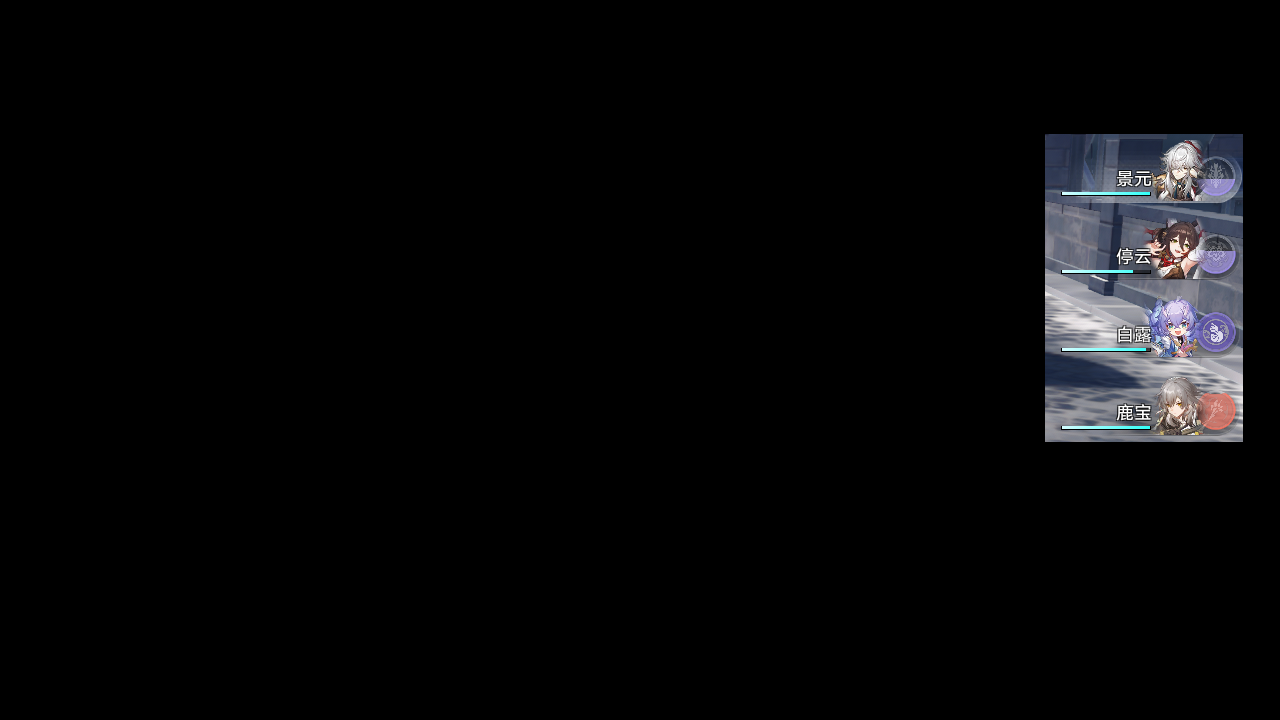
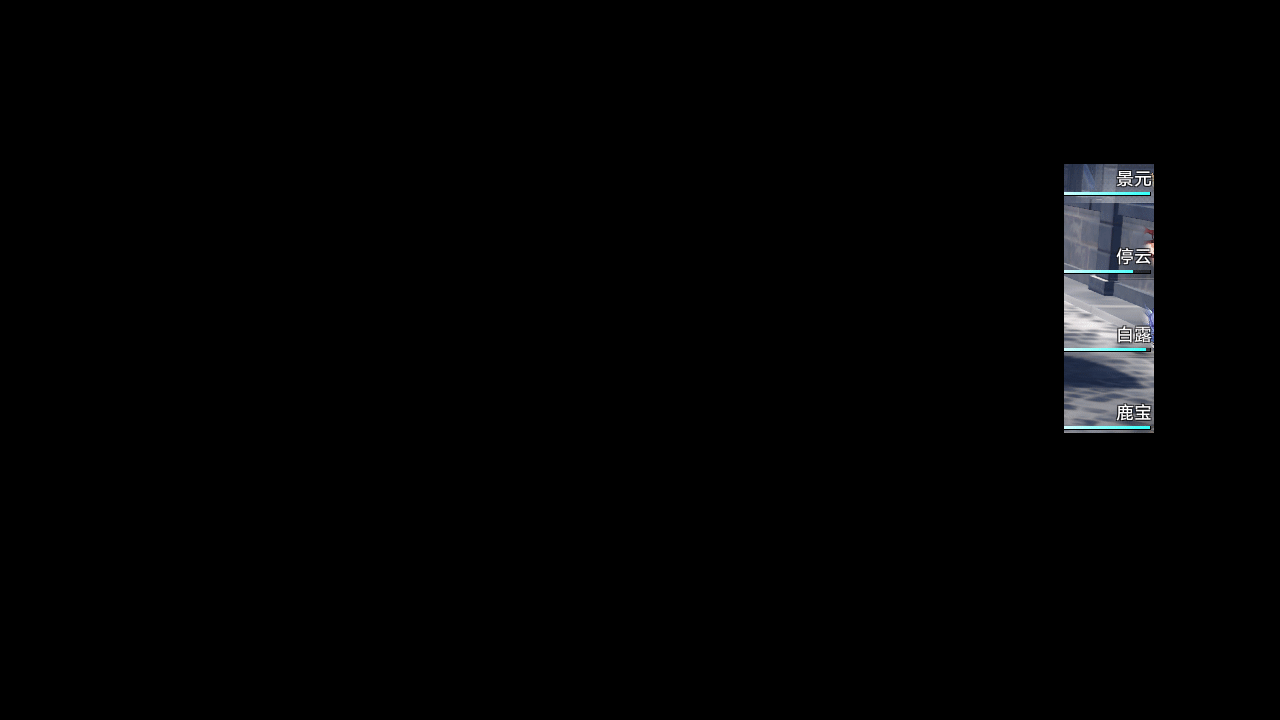
1.在page_main界面选择完角色后会进入page_character界面确认角色已被选择 2.增加了使用更换单个角色的方式来更换队伍中的角色

Changed region(s): [[0.8125, 0.1833, 0.9688, 0.6111]]

diff --git a/tasks/team/team_setup_March7th.py b/tasks/team/team_setup_March7th.py
@@ -1,7 +1,7 @@
 from module.logger import logger
 from module.ocr.ocr import *
 from tasks.base.assets.assets_base_page import CLOSE
-from tasks.base.page import page_team, page_main
+from tasks.base.page import page_team, page_main, page_character
 from tasks.team.assets.assets_team import *
 from tasks.team.assets.assets_team_character_list import *
 from tasks.base.ui import UI
@@ -16,28 +16,44 @@ class TeamUI(UI):
         self.device.screenshot()
         self.check_team_characters()
     """
+
     def check_team_characters(self, skip_first_screenshot=False):
         self.ui_ensure(page_main, skip_first_screenshot)
         skip_first_screenshot = True
+        success = False
+        character_selected = '三月七'
+
         while 1:
             if skip_first_screenshot:
                 skip_first_screenshot = False
             else:
-                ocr = Ocr(TEAM_CHECK_HOMEPAGE)
-                ocr.merge_thres_y = 20
-                result = ocr.detect_and_ocr(self.device.screenshot(), direct_ocr=False)
-                for r in result:
+                self.ui_ensure(page_main, skip_first_screenshot)
+                ocr_page_main = Ocr(TEAM_CHECK_HOMEPAGE)
+                ocr_page_main.merge_thres_y = 20
+                result_page_main = ocr_page_main.detect_and_ocr(self.device.screenshot(), direct_ocr=False)
+                logger.info('Detect Long-handed Character')
+                for r in result_page_main:
                     if r.ocr_text in CHARACTER_RECOMMEND:
-                        logger.info('Long-handed Character "{}" in team'.format(r.ocr_text))
+                        logger.info(f'Long-handed Character "{r.ocr_text}" in team')
+                        character_selected = r.ocr_text
                         button = OcrResultButton(r, r.ocr_text)
                         self.device.click(button)
+                        success = True
+                if success:
+                    # Ensure character selection
+                    self.ui_ensure(page_character, skip_first_screenshot)
+                    ocr_page_character = Ocr(TEAM_CHECK_SELECTED)
+                    result_page_character = ocr_page_character.ocr_single_line(self.device.screenshot())
+                    logger.info(f' "{result_page_character}" is selected ')
+                    if character_selected == result_page_character:
+                        self.ui_ensure(page_main, skip_first_screenshot)
                         return True
-                logger.info('no Long-handed Character in team')
-                if self.setup_team_character():
-                    return True
-                continue
+                else:
+                    logger.info('No Long-handed Character in team')
+                    self.setup_team_character_single()
+                    continue
 
-    def setup_team_character(self, skip_first_screenshot=False):
+    def setup_team_character_quick(self, skip_first_screenshot=False):
         """
         Examples:
             self = TeamUI('alas')
@@ -52,16 +68,40 @@ class TeamUI(UI):
             else:
                 self.device.screenshot()
             if self.appear_then_click(TEAM_SETUP):
-                logger.info('setup team')
+                logger.info('Setup team')
             if self.appear_then_click(TEAM_GRID_FIRST_SITE):
-                logger.info('click TEAM_GRID_FIRST_SITE')
+                logger.info('Click TEAM_GRID_FIRST_SITE')
                 self.device.screenshot()
                 self.match_template(March_7th_Mini)
             if self.appear_then_click(March_7th_Mini, similarity=0.55):
-                logger.info('click March_7th_Mini')
+                logger.info('Click March_7th_Mini')
                 self.appear_then_click(TEAM_CONFIRM)
             if self.appear(TEAM_SETUP_MARCH7TH):
                 self.appear_then_click(CLOSE)
+                if self.ui_ensure(page_main, skip_first_screenshot):
+                    return True
+            logger.info('Setup team character continue')
+            continue
+
+    def setup_team_character_single(self, skip_first_screenshot=False):
+
+        self.ui_ensure(page_team, skip_first_screenshot)
+        skip_first_screenshot = True
+
+        while 1:
+            if skip_first_screenshot:
+                skip_first_screenshot = False
+            else:
+                self.device.screenshot()
+
+            ocr_page_team = Ocr(TEAM_SETUP_FIRST_SITE)
+            result_page_team = ocr_page_team.ocr_single_line(self.device.screenshot())
+            if result_page_team:
+                self.device.click(TEAM_SETUP_FIRST_SITE)
+            if self.appear_then_click(March_7th_Mini, similarity=0.55):
+                logger.info('Click March_7th_Mini')
+            if self.appear_then_click(CHARACTER_STATE_JOIN):
+                logger.info('Character join team')
                 return True
-            logger.info('setup team character continue')
+            logger.info('Setup team character continue')
             continue

diff --git a/tasks/team/assets/assets_team.py b/tasks/team/assets/assets_team.py
@@ -3,14 +3,64 @@ from module.base.button import Button, ButtonWrapper
 # This file was auto-generated, do not modify it manually. To generate:
 # ``` python -m dev_tools.button_extract ```
 
+CHARACTER_LIST_PAGE = ButtonWrapper(
+    name='CHARACTER_LIST_PAGE',
+    cn=Button(
+        file='./assets/cn/team/CHARACTER_LIST_PAGE.png',
+        area=(207, 70, 293, 89),
+        search=(187, 50, 313, 109),
+        color=(115, 120, 146),
+        button=(207, 70, 293, 89),
+    ),
+)
+CHARACTER_STATE_JOIN = ButtonWrapper(
+    name='CHARACTER_STATE_JOIN',
+    cn=Button(
+        file='./assets/cn/team/CHARACTER_STATE_JOIN.png',
+        area=(1063, 656, 1084, 671),
+        search=(1043, 636, 1104, 691),
+        color=(183, 183, 187),
+        button=(1063, 656, 1084, 671),
+    ),
+)
+CHARACTER_STATE_LEAVE = ButtonWrapper(
+    name='CHARACTER_STATE_LEAVE',
+    cn=Button(
+        file='./assets/cn/team/CHARACTER_STATE_LEAVE.png',
+        area=(1064, 654, 1083, 673),
+        search=(1044, 634, 1103, 693),
+        color=(138, 137, 136),
+        button=(1064, 654, 1083, 673),
+    ),
+)
+CHARACTER_STATE_SWITCH = ButtonWrapper(
+    name='CHARACTER_STATE_SWITCH',
+    cn=Button(
+        file='./assets/cn/team/CHARACTER_STATE_SWITCH.png',
+        area=(1061, 653, 1084, 673),
+        search=(1041, 633, 1104, 693),
+        color=(184, 185, 185),
+        button=(1061, 653, 1084, 673),
+    ),
+)
 TEAM_CHECK_HOMEPAGE = ButtonWrapper(
     name='TEAM_CHECK_HOMEPAGE',
     share=Button(
         file='./assets/share/team/TEAM_CHECK_HOMEPAGE.png',
-        area=(1045, 134, 1243, 442),
-        search=(1025, 114, 1263, 462),
-        color=(114, 116, 129),
-        button=(1045, 134, 1243, 442),
+        area=(1064, 164, 1154, 433),
+        search=(1044, 144, 1174, 453),
+        color=(110, 118, 130),
+        button=(1064, 164, 1154, 433),
+    ),
+)
+TEAM_CHECK_SELECTED = ButtonWrapper(
+    name='TEAM_CHECK_SELECTED',
+    share=Button(
+        file='./assets/share/team/TEAM_CHECK_SELECTED.png',
+        area=(915, 82, 1030, 114),
+        search=(895, 62, 1050, 134),
+        color=(79, 88, 127),
+        button=(915, 82, 1030, 114),
     ),
 )
 TEAM_CONFIRM = ButtonWrapper(
@@ -61,6 +111,16 @@ TEAM_SETUP = ButtonWrapper(
         search=(716, 630, 795, 685),
         color=(141, 141, 141),
         button=(736, 650, 775, 665),
+    ),
+)
+TEAM_SETUP_FIRST_SITE = ButtonWrapper(
+    name='TEAM_SETUP_FIRST_SITE',
+    share=Button(
+        file='./assets/share/team/TEAM_SETUP_FIRST_SITE.png',
+        area=(171, 488, 259, 510),
+        search=(151, 468, 279, 530),
+        color=(104, 106, 109),
+        button=(171, 488, 259, 510),
     ),
 )
 TEAM_SETUP_MARCH7TH = ButtonWrapper(

diff --git a/module/ocr/ocr.py b/module/ocr/ocr.py
@@ -65,9 +65,10 @@ class OcrResultButton:
         """
         for keyword_class in keyword_classes:
             try:
-                matched = keyword_class.find(ocr_text, in_current_server=True, ignore_punctuation=True)
+                matched = keyword_class.find(ocr_text, True, True)
                 return matched
             except ScriptError:
+
                 continue
 
         raise ScriptError
